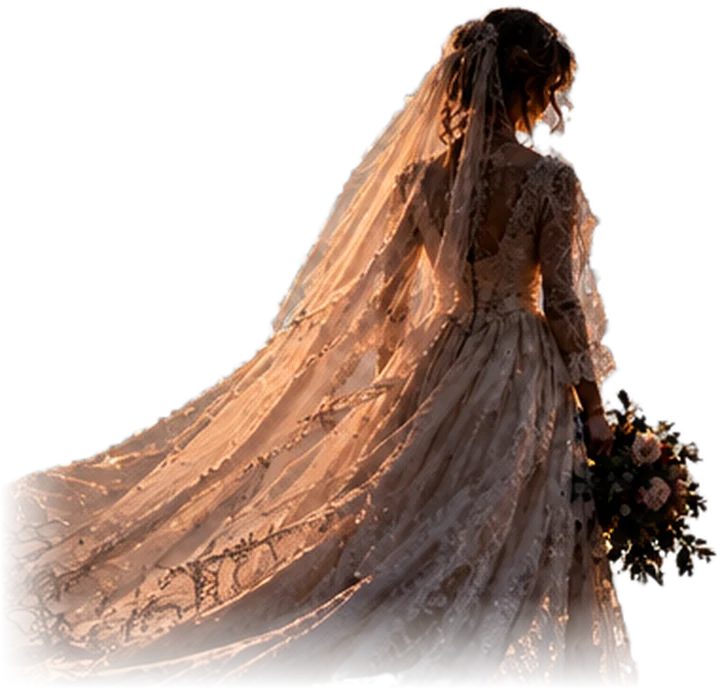
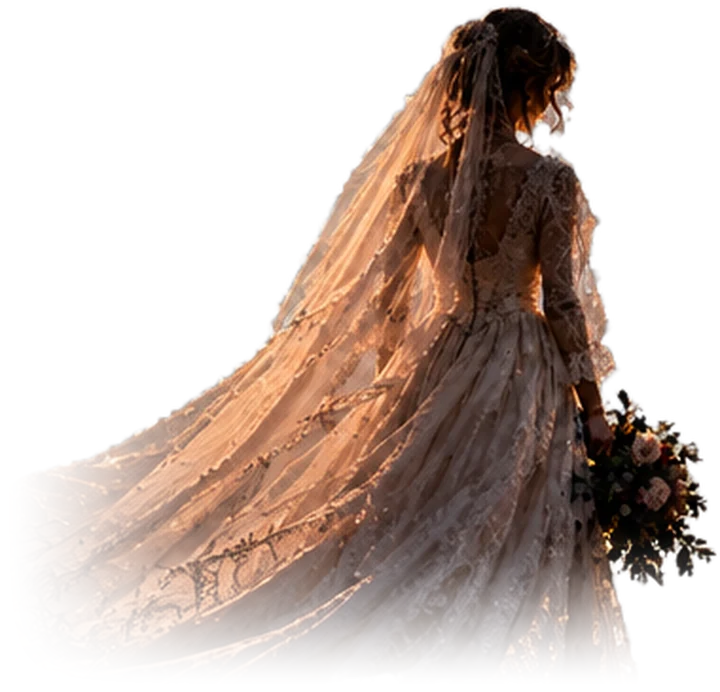
Foto's passend bij elk spoor in alle wandelingen; camera-herkenning rustiger en ruimer; bruid gecentreerd met zachtere randen
Claude-Session: https://claude.ai/code/session_01GGBRKkbZBgiRYUHbP3WSQy

Changed region(s): [[0.0, 0.5766, 0.9778, 1.0]]

diff --git a/murder-walk.html b/murder-walk.html
@@ -528,7 +528,7 @@ const inRange=t=>dTo(t)<=Math.max(35,Math.min(P.acc||0,60))||G.force===t;
 /* schim: man met hoed en lange jas in het lantaarnlicht, zoals op de sfeerfoto; twee ogen in de kleur van de schim */
 const FP={},fp=d=>FP[d]||(FP[d]=new Path2D(d));
 function ph(k){return'<img class="ph" src="'+MW.root+'assets/mw-'+k+'.webp" alt="" width="640" height="540">'}
-function phT(t){return ph(t==="jas"||t==="bril"||t==="schoen"||t==="hand"?t:"evidence")}
+function phT(t,v){const i=TR[t]?TR[t].indexOf(v):-1;return ph(t==="jas"?(i===2?"evidence":"jas"):t==="bril"?(i===0?"bril":"suspect"):t==="hand"?"dossier":t==="schoen"?"schoen":"lantern")}
 ["lantern","witness","suspect","victim","evidence","jas","bril","schoen","hand","flee","shade","dossier"].forEach((k,i)=>setTimeout(()=>{new Image().src=MW.root+"assets/mw-"+k+".webp"},3000+i*300));
 const SHIMG=new Image();SHIMG.src=MW.root+"assets/mw-shadow.webp";const tint=(h,a)=>"rgba("+parseInt(h.slice(1,3),16)+","+parseInt(h.slice(3,5),16)+","+parseInt(h.slice(5,7),16)+","+a+")";
 function ghost(c,x,y,s,col,al){c.save();c.globalAlpha=al;
@@ -751,7 +751,7 @@ async function startAR(t){
   let head=0,h0=null,beta=80,manual=0,hold=0,last=0,raf=0,got=false,px=null,over=false,t0=0;
   let off=(Math.random()<.5?-1:1)*(50+Math.random()*70);
   const tier=t.id!=null?SHADES[t.id][1]:0,col=tier===3?"#f0963c":tier===2?"#e0545f":tier===1?"#ffffff":"#f3c9a0";
-  const onO=e=>{const a=e.webkitCompassHeading!=null?e.webkitCompassHeading:(e.alpha!=null?360-e.alpha:null);if(a==null)return;got=true;head=a;if(h0==null)h0=a;if(e.beta!=null)beta=e.beta};
+  const onO=e=>{const a=e.webkitCompassHeading!=null?e.webkitCompassHeading:(e.alpha!=null?360-e.alpha:null);if(a==null)return;got=true;if(h0==null){h0=a;head=a}else{const dh=((a-head)%360+540)%360-180;head=(head+dh*.25+360)%360};if(e.beta!=null)beta=e.beta};
   addEventListener("deviceorientation",onO);
   c.onpointerdown=e=>{px=e.clientX};c.onpointermove=e=>{if(px!=null){manual-=(e.clientX-px)*.25;px=e.clientX}};c.onpointerup=()=>{px=null};
   const end=ok=>{if(over)return;over=true;cancelAnimationFrame(raf);removeEventListener("deviceorientation",onO);stream.getTracks().forEach(x=>x.stop());v.srcObject=null;ar.hidden=true;if(ok){buzz(120);beep(700,.2);puzzle(t)}};
@@ -762,7 +762,7 @@ async function startAR(t){
     g.clearRect(0,0,w,h);g.fillStyle="rgba(10,16,30,.38)";g.fillRect(0,0,w,h);
     const s=Math.min(w,h)*.8,x=w/2+d/60*w,y=h*.56+(got?Math.max(-h*.3,Math.min(h*.3,(beta-80)*h/100)):0);
     if(Math.abs(d)<55)ghost(g,x,y,s,col,.94);
-    const on=Math.abs(d)<9;hold=on?hold+dt:0;
+    const on=Math.abs(d)<14;hold=on?hold+dt:Math.max(0,hold-dt*1.5);
     g.strokeStyle="rgba(236,228,210,.7)";g.lineWidth=2;g.beginPath();g.arc(w/2,h/2,46,0,7);g.stroke();
     if(on){g.strokeStyle="#f0963c";g.lineWidth=5;g.beginPath();g.arc(w/2,h/2,46,-1.57,-1.57+6.283*Math.min(1,hold));g.stroke()}
     g.font="20px 'Special Elite',monospace";g.textAlign="center";g.fillStyle="#ece4d2";g.shadowColor="#000";g.shadowBlur=8;
@@ -780,7 +780,7 @@ function reveal(t){
     const opts=G.c.wit.map((w,i)=>i).filter(i=>!G.c.wit[i].lie&&!G.tips.includes(i)),ti=opts.length?opts[Math.floor(Math.random()*opts.length)]:-1;let tip="";
     if(ti>=0&&!G.tips.length){G.tips.push(ti);const p=G.st.find(x=>x.kind==="wit"&&x.idx===ti).persona;tip=`<div class="clue"><em>Tip from the shade</em>Believe ${esc(p)}. That one is telling the truth.</div>`}
     h=ph("shade")+`<div class="eyebrow r${s[1]}">${RN[s[1]]}${isNew?" · new in your book":""}</div><h2>${esc(s[0])}</h2><p>${esc(s[2])}</p>${tip}<p class="note" style="color:#6a6250">+${20*s[1]} points</p>`;
-  }else if(t.kind==="ev"){const e=G.c.ev[t.idx];h=phT(e.trait)+`<div class="clue"><em>Evidence · always true</em><b>${esc(e.title)}</b>${esc(e.text)}</div>`}
+  }else if(t.kind==="ev"){const e=G.c.ev[t.idx];h=phT(e.trait,e.val)+`<div class="clue"><em>Evidence · always true</em><b>${esc(e.title)}</b>${esc(e.text)}</div>`}
   else{const w=G.c.wit[t.idx];say((INTRO[t.persona]||"")+" "+w.text,t.idx);h=ph("witness")+`<div class="clue wit"><em>${esc(t.persona)} · witness</em>“${esc(INTRO[t.persona]||"I just happened to be passing.")} ${esc(w.text)}”</div><p class="note" style="color:#6a6250">One of the five witnesses is lying. This one?</p>`}
   if(t.id==null){const n=G.st.filter(x=>x.done).length;h+=`<div class="clue" style="border-color:#6a6250;margin-top:8px"><em>The last evening · ${n}/8</em>${esc(vn(fragList()[n-1]))}</div>`}
   $("#mgHint").hidden=true;$("#mgbox").hidden=true;
@@ -1068,7 +1068,7 @@ function xDraw(t){const X=G.x;if(!X)return;const bob=still?0:Math.sin(t/300)*3;
 function evtOpen(e){walkTo=null;if(e.state!=="run")return;if(Date.now()>e.until){xTick();return}
   e.state="won";e.done=true;e.v=G.c.sus[G.c.killer].tr[e.t];prof.xp+=30;LS.set("ss_prof",prof);sel=null;save();buzz([100,50,100,50,300]);beep(660,.2);setTimeout(()=>beep(990,.4),200);
   const z=evText(e.t,e.v);
-  sheet(phT(e.t)+'<div class="eyebrow">'+T.evWinEy+'</div><h2>'+T.evWinH+'</h2><p>'+T.evWinT+'</p><div class="clue"><em>'+T.evTag+'</em><b>'+esc(z[0])+'</b>'+esc(z[1])+'</div><p class="note" style="color:#6a6250">'+T.xXp+'</p><button type="button" class="btn" id="shX">'+T.xOn+'</button>');
+  sheet(ph("hand")+'<div class="eyebrow">'+T.evWinEy+'</div><h2>'+T.evWinH+'</h2><p>'+T.evWinT+'</p><div class="clue"><em>'+T.evTag+'</em><b>'+esc(z[0])+'</b>'+esc(z[1])+'</div><p class="note" style="color:#6a6250">'+T.xXp+'</p><button type="button" class="btn" id="shX">'+T.xOn+'</button>');
   $("#sheetBody").onclick=ev=>{if(ev.target.id==="shX")closeSheet()}}
 function ivAns(e,t){const c=G.c,kv=c.sus[c.killer].tr[t];if(e.s!==c.killer)return witText(t,kv);const o=TR[t].filter(v=>v!==kv);return witText(t,o[hashStr(G.seed+"l"+t)%o.length])}
 function ivSheet(e){walkTo=null;const c=G.c,s=c.sus[e.s],k=xFree();

diff --git a/nl/moordwandeling.html b/nl/moordwandeling.html
@@ -528,7 +528,7 @@ const inRange=t=>dTo(t)<=Math.max(35,Math.min(P.acc||0,60))||G.force===t;
 /* schim: man met hoed en lange jas in het lantaarnlicht, zoals op de sfeerfoto; twee ogen in de kleur van de schim */
 const FP={},fp=d=>FP[d]||(FP[d]=new Path2D(d));
 function ph(k){return'<img class="ph" src="'+MW.root+'assets/mw-'+k+'.webp" alt="" width="640" height="540">'}
-function phT(t){return ph(t==="jas"||t==="bril"||t==="schoen"||t==="hand"?t:"evidence")}
+function phT(t,v){const i=TR[t]?TR[t].indexOf(v):-1;return ph(t==="jas"?(i===2?"evidence":"jas"):t==="bril"?(i===0?"bril":"suspect"):t==="hand"?"dossier":t==="schoen"?"schoen":"lantern")}
 ["lantern","witness","suspect","victim","evidence","jas","bril","schoen","hand","flee","shade","dossier"].forEach((k,i)=>setTimeout(()=>{new Image().src=MW.root+"assets/mw-"+k+".webp"},3000+i*300));
 const SHIMG=new Image();SHIMG.src=MW.root+"assets/mw-shadow.webp";const tint=(h,a)=>"rgba("+parseInt(h.slice(1,3),16)+","+parseInt(h.slice(3,5),16)+","+parseInt(h.slice(5,7),16)+","+a+")";
 function ghost(c,x,y,s,col,al){c.save();c.globalAlpha=al;
@@ -751,7 +751,7 @@ async function startAR(t){
   let head=0,h0=null,beta=80,manual=0,hold=0,last=0,raf=0,got=false,px=null,over=false,t0=0;
   let off=(Math.random()<.5?-1:1)*(50+Math.random()*70);
   const tier=t.id!=null?SHADES[t.id][1]:0,col=tier===3?"#f0963c":tier===2?"#e0545f":tier===1?"#ffffff":"#f3c9a0";
-  const onO=e=>{const a=e.webkitCompassHeading!=null?e.webkitCompassHeading:(e.alpha!=null?360-e.alpha:null);if(a==null)return;got=true;head=a;if(h0==null)h0=a;if(e.beta!=null)beta=e.beta};
+  const onO=e=>{const a=e.webkitCompassHeading!=null?e.webkitCompassHeading:(e.alpha!=null?360-e.alpha:null);if(a==null)return;got=true;if(h0==null){h0=a;head=a}else{const dh=((a-head)%360+540)%360-180;head=(head+dh*.25+360)%360};if(e.beta!=null)beta=e.beta};
   addEventListener("deviceorientation",onO);
   c.onpointerdown=e=>{px=e.clientX};c.onpointermove=e=>{if(px!=null){manual-=(e.clientX-px)*.25;px=e.clientX}};c.onpointerup=()=>{px=null};
   const end=ok=>{if(over)return;over=true;cancelAnimationFrame(raf);removeEventListener("deviceorientation",onO);stream.getTracks().forEach(x=>x.stop());v.srcObject=null;ar.hidden=true;if(ok){buzz(120);beep(700,.2);puzzle(t)}};
@@ -762,7 +762,7 @@ async function startAR(t){
     g.clearRect(0,0,w,h);g.fillStyle="rgba(10,16,30,.38)";g.fillRect(0,0,w,h);
     const s=Math.min(w,h)*.8,x=w/2+d/60*w,y=h*.56+(got?Math.max(-h*.3,Math.min(h*.3,(beta-80)*h/100)):0);
     if(Math.abs(d)<55)ghost(g,x,y,s,col,.94);
-    const on=Math.abs(d)<9;hold=on?hold+dt:0;
+    const on=Math.abs(d)<14;hold=on?hold+dt:Math.max(0,hold-dt*1.5);
     g.strokeStyle="rgba(236,228,210,.7)";g.lineWidth=2;g.beginPath();g.arc(w/2,h/2,46,0,7);g.stroke();
     if(on){g.strokeStyle="#f0963c";g.lineWidth=5;g.beginPath();g.arc(w/2,h/2,46,-1.57,-1.57+6.283*Math.min(1,hold));g.stroke()}
     g.font="20px 'Special Elite',monospace";g.textAlign="center";g.fillStyle="#ece4d2";g.shadowColor="#000";g.shadowBlur=8;
@@ -780,7 +780,7 @@ function reveal(t){
     const opts=G.c.wit.map((w,i)=>i).filter(i=>!G.c.wit[i].lie&&!G.tips.includes(i)),ti=opts.length?opts[Math.floor(Math.random()*opts.length)]:-1;let tip="";
     if(ti>=0&&!G.tips.length){G.tips.push(ti);const p=G.st.find(x=>x.kind==="wit"&&x.idx===ti).persona;tip=`<div class="clue"><em>Tip van de schim</em>Geloof ${esc(p)}. Die spreekt de waarheid.</div>`}
     h=ph("shade")+`<div class="eyebrow r${s[1]}">${RN[s[1]]}${isNew?" · nieuw in je boek":""}</div><h2>${esc(s[0])}</h2><p>${esc(s[2])}</p>${tip}<p class="note" style="color:#6a6250">+${20*s[1]} punten</p>`;
-  }else if(t.kind==="ev"){const e=G.c.ev[t.idx];h=phT(e.trait)+`<div class="clue"><em>Bewijs · altijd waar</em><b>${esc(e.title)}</b>${esc(e.text)}</div>`}
+  }else if(t.kind==="ev"){const e=G.c.ev[t.idx];h=phT(e.trait,e.val)+`<div class="clue"><em>Bewijs · altijd waar</em><b>${esc(e.title)}</b>${esc(e.text)}</div>`}
   else{const w=G.c.wit[t.idx];say((INTRO[t.persona]||"")+" "+w.text,t.idx);h=ph("witness")+`<div class="clue wit"><em>${esc(t.persona)} · getuige</em>„${esc(INTRO[t.persona]||"Ik kwam hier toevallig langs.")} ${esc(w.text)}”</div><p class="note" style="color:#6a6250">Eén van de vijf getuigen liegt. Deze ook?</p>`}
   if(t.id==null){const n=G.st.filter(x=>x.done).length;h+=`<div class="clue" style="border-color:#6a6250;margin-top:8px"><em>De laatste avond · ${n}/8</em>${esc(vn(fragList()[n-1]))}</div>`}
   $("#mgHint").hidden=true;$("#mgbox").hidden=true;
@@ -1068,7 +1068,7 @@ function xDraw(t){const X=G.x;if(!X)return;const bob=still?0:Math.sin(t/300)*3;
 function evtOpen(e){walkTo=null;if(e.state!=="run")return;if(Date.now()>e.until){xTick();return}
   e.state="won";e.done=true;e.v=G.c.sus[G.c.killer].tr[e.t];prof.xp+=30;LS.set("ss_prof",prof);sel=null;save();buzz([100,50,100,50,300]);beep(660,.2);setTimeout(()=>beep(990,.4),200);
   const z=evText(e.t,e.v);
-  sheet(phT(e.t)+'<div class="eyebrow">'+T.evWinEy+'</div><h2>'+T.evWinH+'</h2><p>'+T.evWinT+'</p><div class="clue"><em>'+T.evTag+'</em><b>'+esc(z[0])+'</b>'+esc(z[1])+'</div><p class="note" style="color:#6a6250">'+T.xXp+'</p><button type="button" class="btn" id="shX">'+T.xOn+'</button>');
+  sheet(ph("hand")+'<div class="eyebrow">'+T.evWinEy+'</div><h2>'+T.evWinH+'</h2><p>'+T.evWinT+'</p><div class="clue"><em>'+T.evTag+'</em><b>'+esc(z[0])+'</b>'+esc(z[1])+'</div><p class="note" style="color:#6a6250">'+T.xXp+'</p><button type="button" class="btn" id="shX">'+T.xOn+'</button>');
   $("#sheetBody").onclick=ev=>{if(ev.target.id==="shX")closeSheet()}}
 function ivAns(e,t){const c=G.c,kv=c.sus[c.killer].tr[t];if(e.s!==c.killer)return witText(t,kv);const o=TR[t].filter(v=>v!==kv);return witText(t,o[hashStr(G.seed+"l"+t)%o.length])}
 function ivSheet(e){walkTo=null;const c=G.c,s=c.sus[e.s],k=xFree();

diff --git a/games/lastbus/game.js b/games/lastbus/game.js
@@ -59,6 +59,8 @@ function wet(c,rx,a){var g=c.createRadialGradient(60,152,2,60,152,rx);g.addColor
 var WIMG=new Image();WIMG.src=MW.root+"games/lastbus/walker.webp";
 function ph(k,cls){return '<img class="'+(cls||"ph")+'" src="'+MW.root+'games/lastbus/p-'+k+'.webp" alt="" width="720" height="630">'}
 var KPH={cam:"cam",wit:"driver",msg:"phone",obj:"receipt",time:"pole",open:"bus"},SPH=["meet","money","proof"];
+function fid(f){var i,k,v,a;if(f.k==="open")return "open";for(i=0;i<(D.SC||[]).length;i++)if(D.SC[i].t===f.t)return "SC:"+i;for(i=0;i<D.TIME.length;i++)if(D.TIME[i].t===f.t)return "TIME:"+i;for(k in D.CT)for(v in D.CT[k].clue){a=D.CT[k].clue[v];for(i=0;i<a.length;i++)if(a[i].t===f.t)return k+":"+v+":"+i}return ""}
+var FPH={"water:ja:2":"left","water:nee:2":"end","SC:2":"meet","SC:8":"proof","SC:11":"money","cam:ja:0":"phone","cam:nee:0":"phone","SC:7":"phone","SC:10":"phone","TIME:1":"phone","TIME:2":"bus","TIME:3":"bus"};
 function walker(c,x,y,s,col,al){
   if(WIMG.naturalWidth){c.save();c.globalAlpha=al;var cy=y-s*.06,g0=c.createRadialGradient(x,cy,s*.05,x,cy,s*.74);g0.addColorStop(0,"rgba(255,190,90,.40)");g0.addColorStop(.55,"rgba(255,176,0,.14)");g0.addColorStop(1,"rgba(255,176,0,0)");c.fillStyle=g0;c.beginPath();c.arc(x,cy,s*.74,0,7);c.fill();
     var wh=s*1.14,ww=wh*WIMG.naturalWidth/WIMG.naturalHeight;c.drawImage(WIMG,x-ww/2,y-wh/2,ww,wh);c.restore();return}
@@ -257,7 +259,7 @@ function startAR(s){closeSheet();var ar=$("#ar"),v=$("#arV"),c=$("#arC"),hint=$(
   try{if(window.DeviceOrientationEvent&&typeof DeviceOrientationEvent.requestPermission==="function")DeviceOrientationEvent.requestPermission().catch(function(){})}catch(e){}
   req.then(function(stream){G.cam="on";save();AR.on=true;v.srcObject=stream;ar.hidden=false;var g=c.getContext("2d"),dpr=1,w=0,h=0,head=null,dragH=180,target=90+Math.random()*180,hold=0,last=0,fin=false,hasOri=false;
     var rs=function(){dpr=Math.min(2,devicePixelRatio||1);w=c.clientWidth;h=c.clientHeight;c.width=w*dpr;c.height=h*dpr};rs();addEventListener("resize",rs);
-    var ori=function(e){var a=e.webkitCompassHeading!=null?e.webkitCompassHeading:(e.alpha!=null?360-e.alpha:null);if(a!=null){head=a;hasOri=true}};
+    var ori=function(e){var a=e.webkitCompassHeading!=null?e.webkitCompassHeading:(e.alpha!=null?360-e.alpha:null);if(a!=null){if(head==null)head=a;else{var dh=((a-head)%360+540)%360-180;head=(head+dh*.25+360)%360}hasOri=true}};
     addEventListener("deviceorientationabsolute",ori);addEventListener("deviceorientation",ori);
     var pd=null;c.addEventListener("pointerdown",function(e){pd=[e.clientX,dragH]});c.addEventListener("pointermove",function(e){if(pd&&!hasOri)dragH=pd[1]-(e.clientX-pd[0])*.35});c.addEventListener("pointerup",function(){pd=null});
     var stop=function(){AR.on=false;fin=true;removeEventListener("deviceorientationabsolute",ori);removeEventListener("deviceorientation",ori);removeEventListener("resize",rs);try{stream.getTracks().forEach(function(t){t.stop()})}catch(e){}v.srcObject=null;ar.hidden=true};
@@ -268,14 +270,14 @@ function startAR(s){closeSheet();var ar=$("#ar"),v=$("#arV"),c=$("#arC"),hint=$(
       var fov=60,x=w/2+d/fov*w,y=h*.58,vis=Math.abs(d)<fov*.9;
       if(vis){var sc=120+Math.max(0,20-Math.abs(d))*2;walker(g,x,y-sc*.1,sc,"#f0963c",.6+.35*Math.abs(Math.sin(ts/300)))}
       g.strokeStyle="rgba(240,166,58,.8)";g.lineWidth=2;g.beginPath();g.arc(w/2,y,44,0,7);g.stroke();
-      var near=Math.abs(d)<10;hold=near?hold+dt:0;if(near){g.strokeStyle="#f4ece0";g.lineWidth=5;g.beginPath();g.arc(w/2,y,52,-1.57,-1.57+6.283*Math.min(1,hold/1.2));g.stroke()}
-      hint.textContent=near?PZ.ar.hold:d<-10?PZ.ar.left:d>10?PZ.ar.right:"";
+      var near=Math.abs(d)<15;hold=near?hold+dt:Math.max(0,hold-dt*1.5);if(near){g.strokeStyle="#f4ece0";g.lineWidth=5;g.beginPath();g.arc(w/2,y,52,-1.57,-1.57+6.283*Math.min(1,hold/1.2));g.stroke()}
+      hint.textContent=near?PZ.ar.hold:d<-15?PZ.ar.left:d>15?PZ.ar.right:"";
       if(hold>=1.2){toast(PZ.ar.found);stop();finish(s);return}
       requestAnimationFrame(f)};requestAnimationFrame(f)
   }).catch(function(){G.cam="off";save();puzzle(s)})}
 function reveal(s){var f=G.c.frags[s.fi],v=vars(G.c),n=G.st.filter(function(x){return x.done}).length,tw=D.TWIST[n],fig=f.k==="cam"||f.k==="wit"||f.k==="open";
   sheet('<div class="led"><b>'+v.LN+'</b><span>'+esc(s.name)+'</span><i>'+fmt(f.tm)+'</i></div>'+
-    '<div class="clue k-'+f.k+'"><em>'+esc(f.k==="wit"?T.kinds.wit+" · "+cap(s.persona):T.kinds[f.k])+' · '+esc(fill(T.found,{i:n,t:fmt(f.tm)}))+'</em>'+ph(KPH[f.k]||"receipt","dph")+'<p>'+esc(fragText(f))+'</p></div>'+
+    '<div class="clue k-'+f.k+'"><em>'+esc(f.k==="wit"?T.kinds.wit+" · "+cap(s.persona):T.kinds[f.k])+' · '+esc(fill(T.found,{i:n,t:fmt(f.tm)}))+'</em>'+ph(FPH[fid(f)]||KPH[f.k]||"receipt","dph")+'<p>'+esc(fragText(f))+'</p></div>'+
     (tw?'<div class="twist"><em>'+esc(T.certGone)+'</em><p>'+esc(fill(tw,v))+'</p></div>':'')+'<button type="button" class="btn" id="shX">'+T.back+'</button>');
   var fc=$("#figc");if(fc){var fg=fc.getContext("2d");if(f.k==="wit")shelter(fg,160,118,220,s.fi);else{bus(fg,205,112,200,v.LN,1);walker(fg,74,138,150,"#ffb000",1)}}
   if(tw){buzz([120,80,260]);beep(160,.4)}

diff --git a/games/coldcase/game.js b/games/coldcase/game.js
@@ -62,6 +62,8 @@ function wet(c,rx,a){if(PAST){c.fillStyle="rgba(40,28,16,.28)";c.beginPath();c.e
 var WIMG=new Image();WIMG.src=MW.root+"games/coldcase/walker.webp";
 function ph(k,cls){return '<img class="'+(cls||"ph")+'" src="'+MW.root+'games/coldcase/p-'+k+'.webp" alt="" width="720" height="610">'}
 var KPH={cam:"photo",wit:"interro",msg:"letter",obj:"evidence",time:"clipping",open:"phone"},SPH=["crime","accident","left"];
+function fid(f){var i,k,v,a;if(f.k==="open")return "open";for(i=0;i<(D.SC||[]).length;i++)if(D.SC[i].t===f.t)return "SC:"+i;for(i=0;i<D.TIME.length;i++)if(D.TIME[i].t===f.t)return "TIME:"+i;for(k in D.CT)for(v in D.CT[k].clue){a=D.CT[k].clue[v];for(i=0;i<a.length;i++)if(a[i].t===f.t)return k+":"+v+":"+i}return ""}
+var FPH={"SC:0":"crime","SC:8":"accident","lang:ja:2":"file","TIME:2":"file","TIME:3":"file"};
 function walker(c,x,y,s,col,al){
   if(WIMG.naturalWidth){c.save();c.globalAlpha=al;var wh=s*1.14,ww=wh*WIMG.naturalWidth/WIMG.naturalHeight;c.drawImage(WIMG,x-ww/2,y-wh/2,ww,wh);c.restore();return}
   figBox(c,x,y,s,al,function(){
@@ -246,7 +248,7 @@ function startAR(s){closeSheet();var ar=$("#ar"),v=$("#arV"),c=$("#arC"),hint=$(
   try{if(window.DeviceOrientationEvent&&typeof DeviceOrientationEvent.requestPermission==="function")DeviceOrientationEvent.requestPermission().catch(function(){})}catch(e){}
   req.then(function(stream){G.cam="on";save();AR.on=true;v.srcObject=stream;ar.hidden=false;var g=c.getContext("2d"),dpr=1,w=0,h=0,head=null,dragH=180,target=90+Math.random()*180,hold=0,last=0,fin=false,hasOri=false;
     var rs=function(){dpr=Math.min(2,devicePixelRatio||1);w=c.clientWidth;h=c.clientHeight;c.width=w*dpr;c.height=h*dpr};rs();addEventListener("resize",rs);
-    var ori=function(e){var a=e.webkitCompassHeading!=null?e.webkitCompassHeading:(e.alpha!=null?360-e.alpha:null);if(a!=null){head=a;hasOri=true}};
+    var ori=function(e){var a=e.webkitCompassHeading!=null?e.webkitCompassHeading:(e.alpha!=null?360-e.alpha:null);if(a!=null){if(head==null)head=a;else{var dh=((a-head)%360+540)%360-180;head=(head+dh*.25+360)%360}hasOri=true}};
     addEventListener("deviceorientationabsolute",ori);addEventListener("deviceorientation",ori);
     var pd=null;c.addEventListener("pointerdown",function(e){pd=[e.clientX,dragH]});c.addEventListener("pointermove",function(e){if(pd&&!hasOri)dragH=pd[1]-(e.clientX-pd[0])*.35});c.addEventListener("pointerup",function(){pd=null});
     var stop=function(){AR.on=false;fin=true;removeEventListener("deviceorientationabsolute",ori);removeEventListener("deviceorientation",ori);removeEventListener("resize",rs);try{stream.getTracks().forEach(function(t){t.stop()})}catch(e){}v.srcObject=null;ar.hidden=true};
@@ -257,14 +259,14 @@ function startAR(s){closeSheet();var ar=$("#ar"),v=$("#arV"),c=$("#arC"),hint=$(
       var fov=60,x=w/2+d/fov*w,y=h*.58,vis=Math.abs(d)<fov*.9;
       if(vis){var sc=120+Math.max(0,20-Math.abs(d))*2;past(g,x,y-sc*.1,sc+hold*40,.95,ts,walker)}
       g.strokeStyle="rgba(240,166,58,.8)";g.lineWidth=2;g.beginPath();g.arc(w/2,y,44,0,7);g.stroke();g.font="20px 'Special Elite',monospace";g.textAlign="right";g.fillStyle="rgba(255,170,60,.9)";g.fillText(dateOf(G.seed).toUpperCase(),w-18,h-90);g.textAlign="left";g.fillText("● REC",18,h-90);
-      var near=Math.abs(d)<10;hold=near?hold+dt:0;if(near){g.strokeStyle="#f4ece0";g.lineWidth=5;g.beginPath();g.arc(w/2,y,52,-1.57,-1.57+6.283*Math.min(1,hold/1.2));g.stroke()}
-      hint.textContent=near?PZ.ar.hold:d<-10?PZ.ar.left:d>10?PZ.ar.right:"";
+      var near=Math.abs(d)<15;hold=near?hold+dt:Math.max(0,hold-dt*1.5);if(near){g.strokeStyle="#f4ece0";g.lineWidth=5;g.beginPath();g.arc(w/2,y,52,-1.57,-1.57+6.283*Math.min(1,hold/1.2));g.stroke()}
+      hint.textContent=near?PZ.ar.hold:d<-15?PZ.ar.left:d>15?PZ.ar.right:"";
       if(hold>=1.2){toast(PZ.ar.found);stop();finish(s);return}
       requestAnimationFrame(f)};requestAnimationFrame(f)
   }).catch(function(){G.cam="off";save();puzzle(s)})}
 function reveal(s){var f=G.c.frags[s.fi],v=vars(G.c),then=D.THEN[s.type]||D.THEN.hoek,fig=f.k==="cam"||f.k==="wit";
   sheet('<div class="then"><span class="now">'+esc(T.now)+' · '+esc(s.name)+'</span><b>'+YEAR+'</b><span class="was">'+esc(then)+'</span></div>'+
-    '<div class="doc k-'+f.k+'"><em>'+esc(f.k==="wit"?T.kinds.wit+" · "+cap(s.persona):T.kinds[f.k])+' · '+fmt(f.tm)+(L==="nl"?" uur":"")+'</em>'+ph(KPH[f.k]||"evidence","dph")+'<p>'+esc(fragText(f))+'</p></div>'+
+    '<div class="doc k-'+f.k+'"><em>'+esc(f.k==="wit"?T.kinds.wit+" · "+cap(s.persona):T.kinds[f.k])+' · '+fmt(f.tm)+(L==="nl"?" uur":"")+'</em>'+ph(FPH[fid(f)]||KPH[f.k]||"evidence","dph")+'<p>'+esc(fragText(f))+'</p></div>'+
     (f.k==="open"?'<p class="note">'+esc(fill(T.how[2],v))+'</p>':'')+'<button type="button" class="btn" id="shX">'+T.back+'</button>');
   var fc=$("#figc");if(fc){var fg=fc.getContext("2d");past(fg,120,116,190,1,0,f.k==="cam"?walker:pastW(s.fi))}
   $("#shX").onclick=function(){closeSheet();sel=null;chip();if(G.st.every(function(x){return x.done}))toast(T.radarAll)}}

diff --git a/games/bride/game.js b/games/bride/game.js
@@ -58,11 +58,13 @@ function pool(c,rx,col,a){var g=c.createRadialGradient(60,152,2,60,152,rx);g.add
 /* de bruid: op de rug gezien, opgestoken haar, kanten lijfje, wijde rok en een sluier die naar links wegwaait; zij is het enige lichte in de straat */
 var BIMG=new Image();BIMG.src=MW.root+"games/bride/bride.webp";
 function ph(k){return '<img class="ph" src="'+MW.root+'games/bride/p-'+k+'.webp" alt="" width="720" height="600">'}
-function phF(f){return ph(f.k==="cam"?"bride":f.k==="wit"?"witness":f.k==="msg"||f.k==="open"?"phone":f.k==="time"?"bouquet":f.trait==="ring"?"ring":f.trait==="bellen"?"phone":"invite")}
+function fid(f){var i,k,v,a;if(f.k==="open")return "open";for(i=0;i<(D.SC||[]).length;i++)if(D.SC[i].t===f.t)return "SC:"+i;for(i=0;i<D.TIME.length;i++)if(D.TIME[i].t===f.t)return "TIME:"+i;for(k in D.CT)for(v in D.CT[k].clue){a=D.CT[k].clue[v];for(i=0;i<a.length;i++)if(a[i].t===f.t)return k+":"+v+":"+i}return ""}
+var FPH={"ring:ja:0":"ring","ring:nee:0":"ring","sleutel:ja:0":"dress","bellen:ja:0":"phone","bellen:nee:0":"phone","SC:8":"money","TIME:0":"jealousy","TIME:2":"witness","TIME:3":"invite"};
+function phF(f){return ph(FPH[fid(f)]||(f.k==="cam"?"bride":f.k==="wit"?"witness":f.k==="msg"||f.k==="open"?"phone":f.k==="time"?"bouquet":"invite"))}
 var MPH=["jealousy","money","secret"];
 function bride(c,x,y,s,col,al){
   if(BIMG.naturalWidth){c.save();c.globalAlpha=al;var h0=c.createRadialGradient(x,y,s*.05,x,y,s*.8);h0.addColorStop(0,"rgba(247,239,223,.32)");h0.addColorStop(1,"rgba(247,239,223,0)");c.fillStyle=h0;c.beginPath();c.arc(x,y,s*.8,0,7);c.fill();
-    var bw=s*1.3,bh=bw*BIMG.naturalHeight/BIMG.naturalWidth;c.drawImage(BIMG,x-bw*.64,y-bh*.5,bw,bh);c.restore();return}
+    var bw=s*1.3,bh=bw*BIMG.naturalHeight/BIMG.naturalWidth;c.drawImage(BIMG,x-bw*.72,y-bh*.5,bw,bh);c.restore();return}
   figBox(c,x,y,s,al,function(){
   var h=c.createRadialGradient(60,70,6,60,80,110);h.addColorStop(0,"rgba(247,239,223,.30)");h.addColorStop(1,"rgba(247,239,223,0)");c.fillStyle=h;c.beginPath();c.arc(60,80,110,0,7);c.fill();
   pool(c,74,"240,168,80",.38);
@@ -278,7 +280,7 @@ function startAR(s){closeSheet();var ar=$("#ar"),v=$("#arV"),c=$("#arC"),hint=$(
   try{if(window.DeviceOrientationEvent&&typeof DeviceOrientationEvent.requestPermission==="function")DeviceOrientationEvent.requestPermission().catch(function(){})}catch(e){}
   req.then(function(stream){G.cam="on";save();AR.on=true;v.srcObject=stream;ar.hidden=false;var g=c.getContext("2d"),dpr=1,w=0,h=0,head=null,dragH=180,target=90+Math.random()*180,hold=0,last=0,fin=false,hasOri=false;
     var rs=function(){dpr=Math.min(2,devicePixelRatio||1);w=c.clientWidth;h=c.clientHeight;c.width=w*dpr;c.height=h*dpr};rs();addEventListener("resize",rs);
-    var ori=function(e){var a=e.webkitCompassHeading!=null?e.webkitCompassHeading:(e.alpha!=null?360-e.alpha:null);if(a!=null){head=a;hasOri=true}};
+    var ori=function(e){var a=e.webkitCompassHeading!=null?e.webkitCompassHeading:(e.alpha!=null?360-e.alpha:null);if(a!=null){if(head==null)head=a;else{var dh=((a-head)%360+540)%360-180;head=(head+dh*.25+360)%360}hasOri=true}};
     addEventListener("deviceorientationabsolute",ori);addEventListener("deviceorientation",ori);
     var pd=null;c.addEventListener("pointerdown",function(e){pd=[e.clientX,dragH]});c.addEventListener("pointermove",function(e){if(pd&&!hasOri)dragH=pd[1]-(e.clientX-pd[0])*.35});c.addEventListener("pointerup",function(){pd=null});
     var stop=function(){AR.on=false;fin=true;removeEventListener("deviceorientationabsolute",ori);removeEventListener("deviceorientation",ori);removeEventListener("resize",rs);try{stream.getTracks().forEach(function(t){t.stop()})}catch(e){}v.srcObject=null;ar.hidden=true};
@@ -289,8 +291,8 @@ function startAR(s){closeSheet();var ar=$("#ar"),v=$("#arV"),c=$("#arC"),hint=$(
       var fov=60,x=w/2+d/fov*w,y=h*.58,vis=Math.abs(d)<fov*.9;
       if(vis){var sc=110+hold*90;bride(g,x,y-sc*.12,sc,"#f0a850",Math.max(0,.9-Math.max(0,hold-1.4)*1.5))}
       g.strokeStyle="rgba(240,168,80,.85)";g.lineWidth=1.5;g.beginPath();g.arc(w/2,y,44,0,7);g.stroke();
-      var near=Math.abs(d)<10;hold=near?hold+dt:0;if(near){g.strokeStyle="#efe6d8";g.lineWidth=4;g.beginPath();g.arc(w/2,y,52,-1.57,-1.57+6.283*Math.min(1,hold/2));g.stroke()}
-      hint.textContent=near?PZ.ar.hold:d<-10?PZ.ar.left:d>10?PZ.ar.right:"";
+      var near=Math.abs(d)<15;hold=near?hold+dt:Math.max(0,hold-dt*1.5);if(near){g.strokeStyle="#efe6d8";g.lineWidth=4;g.beginPath();g.arc(w/2,y,52,-1.57,-1.57+6.283*Math.min(1,hold/2));g.stroke()}
+      hint.textContent=near?PZ.ar.hold:d<-15?PZ.ar.left:d>15?PZ.ar.right:"";
       if(hold>=2){toast(PZ.ar.found);stop();finish(s);return}
       requestAnimationFrame(f)};requestAnimationFrame(f)
   }).catch(function(){G.cam="off";save();puzzle(s)})}

diff --git a/games/vanishing/game.js b/games/vanishing/game.js
@@ -57,7 +57,9 @@ function wet(c,rx,a){var g=c.createRadialGradient(60,152,2,60,152,rx);g.addColor
 /* de vermiste: op de rug gezien, lopend, capuchon op en rugzak om (bewust geen man of vrouw), tegen het laatste avondlicht */
 var WIMG=new Image();WIMG.src=MW.root+"games/vanishing/walker.webp";
 function ph(k,cls){return '<img class="'+(cls||"ph")+'" src="'+MW.root+'games/vanishing/p-'+k+'.webp" alt="" width="720" height="640">'}
-function phF(f){return ph(f.trait==="auto"&&f.val==="auto"&&f.k!=="msg"?"car":f.k==="cam"?"cam":f.k==="wit"?"witness":f.k==="msg"||f.k==="open"||f.trait==="bellen"?"phone":f.k==="time"?"doorbell":"found")}
+function fid(f){var i,k,v,a;if(f.k==="open")return "open";for(i=0;i<(D.SC||[]).length;i++)if(D.SC[i].t===f.t)return "SC:"+i;for(i=0;i<D.TIME.length;i++)if(D.TIME[i].t===f.t)return "TIME:"+i;for(k in D.CT)for(v in D.CT[k].clue){a=D.CT[k].clue[v];for(i=0;i<a.length;i++)if(a[i].t===f.t)return k+":"+v+":"+i}return ""}
+var FPH={"auto:auto:0":"car","auto:auto:1":"car","auto:auto:2":"car","bellen:ja:0":"phone","bellen:nee:0":"phone","SC:6":"left","SC:10":"fled","TIME:0":"found","TIME:1":"bag","TIME:3":"cam"};
+function phF(f){return ph(FPH[fid(f)]||(f.k==="cam"?"cam":f.k==="wit"?"witness":f.k==="msg"||f.k==="open"?"phone":f.k==="time"?"doorbell":"found"))}
 var SPH=["taken","fled","left"];
 function walker(c,x,y,s,col,al){
   if(WIMG.naturalWidth){c.save();c.globalAlpha=al;var cy=y-s*.06,g0=c.createRadialGradient(x,cy,s*.05,x,cy,s*.74);g0.addColorStop(0,"rgba(240,150,60,.42)");g0.addColorStop(.55,"rgba(232,120,70,.16)");g0.addColorStop(1,"rgba(232,120,70,0)");c.fillStyle=g0;c.beginPath();c.arc(x,cy,s*.74,0,7);c.fill();
@@ -233,7 +235,7 @@ function startAR(s){closeSheet();var ar=$("#ar"),v=$("#arV"),c=$("#arC"),hint=$(
   try{if(window.DeviceOrientationEvent&&typeof DeviceOrientationEvent.requestPermission==="function")DeviceOrientationEvent.requestPermission().catch(function(){})}catch(e){}
   req.then(function(stream){G.cam="on";save();AR.on=true;v.srcObject=stream;ar.hidden=false;var g=c.getContext("2d"),dpr=1,w=0,h=0,head=null,dragH=180,target=90+Math.random()*180,hold=0,last=0,fin=false,hasOri=false;
     var rs=function(){dpr=Math.min(2,devicePixelRatio||1);w=c.clientWidth;h=c.clientHeight;c.width=w*dpr;c.height=h*dpr};rs();addEventListener("resize",rs);
-    var ori=function(e){var a=e.webkitCompassHeading!=null?e.webkitCompassHeading:(e.alpha!=null?360-e.alpha:null);if(a!=null){head=a;hasOri=true}};
+    var ori=function(e){var a=e.webkitCompassHeading!=null?e.webkitCompassHeading:(e.alpha!=null?360-e.alpha:null);if(a!=null){if(head==null)head=a;else{var dh=((a-head)%360+540)%360-180;head=(head+dh*.25+360)%360}hasOri=true}};
     addEventListener("deviceorientationabsolute",ori);addEventListener("deviceorientation",ori);
     var pd=null;c.addEventListener("pointerdown",function(e){pd=[e.clientX,dragH]});c.addEventListener("pointermove",function(e){if(pd&&!hasOri)dragH=pd[1]-(e.clientX-pd[0])*.35});c.addEventListener("pointerup",function(){pd=null});
     var stop=function(){AR.on=false;fin=true;removeEventListener("deviceorientationabsolute",ori);removeEventListener("deviceorientation",ori);removeEventListener("resize",rs);try{stream.getTracks().forEach(function(t){t.stop()})}catch(e){}v.srcObject=null;ar.hidden=true};
@@ -244,8 +246,8 @@ function startAR(s){closeSheet();var ar=$("#ar"),v=$("#arV"),c=$("#arC"),hint=$(
       var fov=60,x=w/2+d/fov*w,y=h*.58,vis=Math.abs(d)<fov*.9;
       if(vis){var sc=120+Math.max(0,20-Math.abs(d))*2;walker(g,x,y-sc*.1,sc,"#f0963c",.6+.35*Math.abs(Math.sin(ts/300)))}
       g.strokeStyle="rgba(240,166,58,.8)";g.lineWidth=2;g.beginPath();g.arc(w/2,y,44,0,7);g.stroke();
-      var near=Math.abs(d)<10;hold=near?hold+dt:0;if(near){g.strokeStyle="#f4ece0";g.lineWidth=5;g.beginPath();g.arc(w/2,y,52,-1.57,-1.57+6.283*Math.min(1,hold/1.2));g.stroke()}
-      hint.textContent=near?PZ.ar.hold:d<-10?PZ.ar.left:d>10?PZ.ar.right:"";
+      var near=Math.abs(d)<15;hold=near?hold+dt:Math.max(0,hold-dt*1.5);if(near){g.strokeStyle="#f4ece0";g.lineWidth=5;g.beginPath();g.arc(w/2,y,52,-1.57,-1.57+6.283*Math.min(1,hold/1.2));g.stroke()}
+      hint.textContent=near?PZ.ar.hold:d<-15?PZ.ar.left:d>15?PZ.ar.right:"";
       if(hold>=1.2){toast(PZ.ar.found);stop();finish(s);return}
       requestAnimationFrame(f)};requestAnimationFrame(f)
   }).catch(function(){G.cam="off";save();puzzle(s)})}

diff --git a/games/witness/game.js b/games/witness/game.js
@@ -64,7 +64,9 @@ function walker(c,x,y,s,col,al){figBox(c,x,y,s,al,function(){
 var SIMG=new Image();SIMG.src=MW.root+"games/witness/stalker.webp";
 function tint(h,a){return "rgba("+parseInt(h.slice(1,3),16)+","+parseInt(h.slice(3,5),16)+","+parseInt(h.slice(5,7),16)+","+a+")"}
 function ph(k,cls){return '<img class="'+(cls||"ph")+'" src="'+MW.root+'games/witness/p-'+k+'.webp" alt="" width="720" height="620">'}
-function phF(f){return f.k==="cam"?"cam":f.k==="wit"?"passer":f.k==="time"?"window":f.trait==="auto"?"car":"found"}
+function fid(f){var i,k,v,a;if(f.k==="open")return "open";for(i=0;i<(D.SC||[]).length;i++)if(D.SC[i].t===f.t)return "SC:"+i;for(i=0;i<D.TIME.length;i++)if(D.TIME[i].t===f.t)return "TIME:"+i;for(k in D.CT)for(v in D.CT[k].clue){a=D.CT[k].clue[v];for(i=0;i<a.length;i++)if(a[i].t===f.t)return k+":"+v+":"+i}return ""}
+var FPH={"auto:ja:0":"car","auto:ja:1":"car","rookt:nee:0":"shadows","nummer:oud:1":"phone","nummer:nieuw:1":"phone","TIME:0":"shadows","TIME:2":"cam","TIME:3":"shadows"};
+function phF(f){return FPH[fid(f)]||(f.k==="cam"?"cam":f.k==="wit"?"passer":f.k==="time"?"window":"found")}
 function stalker(c,x,y,s,col,al){
   if(SIMG.naturalWidth){c.save();c.globalAlpha=al;var cy=y-s*.08,g0=c.createRadialGradient(x,cy,s*.05,x,cy,s*.72);g0.addColorStop(0,tint(col,.5));g0.addColorStop(.55,tint(col,.18));g0.addColorStop(1,tint(col,0));c.fillStyle=g0;c.beginPath();c.arc(x,cy,s*.72,0,7);c.fill();
     var sh=s*1.14,sw=sh*SIMG.naturalWidth/SIMG.naturalHeight;c.drawImage(SIMG,x-sw/2,y-sh/2,sw,sh);c.restore();return}
@@ -277,7 +279,7 @@ function startAR(s){closeSheet();var ar=$("#ar"),v=$("#arV"),c=$("#arC"),hint=$(
   try{if(window.DeviceOrientationEvent&&typeof DeviceOrientationEvent.requestPermission==="function")DeviceOrientationEvent.requestPermission().catch(function(){})}catch(e){}
   req.then(function(stream){G.cam="on";save();AR.on=true;v.srcObject=stream;ar.hidden=false;var g=c.getContext("2d"),dpr=1,w=0,h=0,head=null,dragH=180,target=90+Math.random()*180,hold=0,last=0,fin=false,hasOri=false;
     var rs=function(){dpr=Math.min(2,devicePixelRatio||1);w=c.clientWidth;h=c.clientHeight;c.width=w*dpr;c.height=h*dpr};rs();addEventListener("resize",rs);
-    var ori=function(e){var a=e.webkitCompassHeading!=null?e.webkitCompassHeading:(e.alpha!=null?360-e.alpha:null);if(a!=null){head=a;hasOri=true}};
+    var ori=function(e){var a=e.webkitCompassHeading!=null?e.webkitCompassHeading:(e.alpha!=null?360-e.alpha:null);if(a!=null){if(head==null)head=a;else{var dh=((a-head)%360+540)%360-180;head=(head+dh*.25+360)%360}hasOri=true}};
     addEventListener("deviceorientationabsolute",ori);addEventListener("deviceorientation",ori);
     var pd=null;c.addEventListener("pointerdown",function(e){pd=[e.clientX,dragH]});c.addEventListener("pointermove",function(e){if(pd&&!hasOri)dragH=pd[1]-(e.clientX-pd[0])*.35});c.addEventListener("pointerup",function(){pd=null});
     var stop=function(){AR.on=false;fin=true;removeEventListener("deviceorientationabsolute",ori);removeEventListener("deviceorientation",ori);removeEventListener("resize",rs);try{stream.getTracks().forEach(function(t){t.stop()})}catch(e){}v.srcObject=null;ar.hidden=true};
@@ -288,8 +290,8 @@ function startAR(s){closeSheet();var ar=$("#ar"),v=$("#arV"),c=$("#arC"),hint=$(
       var fov=60,x=w/2+d/fov*w,y=h*.58,vis=Math.abs(d)<fov*.9;
       if(vis){var sc=120+Math.max(0,20-Math.abs(d))*2;stalker(g,x,y-sc*.1,sc+hold*60,"#8fa3b8",.75+.2*Math.abs(Math.sin(ts/300)))}
       g.strokeStyle="rgba(240,166,58,.8)";g.lineWidth=2;g.beginPath();g.arc(w/2,y,44,0,7);g.stroke();
-      var near=Math.abs(d)<10;hold=near?hold+dt:0;if(near){g.strokeStyle="#f4ece0";g.lineWidth=5;g.beginPath();g.arc(w/2,y,52,-1.57,-1.57+6.283*Math.min(1,hold/1.2));g.stroke()}
-      hint.textContent=near?PZ.ar.hold:d<-10?PZ.ar.left:d>10?PZ.ar.right:"";
+      var near=Math.abs(d)<15;hold=near?hold+dt:Math.max(0,hold-dt*1.5);if(near){g.strokeStyle="#f4ece0";g.lineWidth=5;g.beginPath();g.arc(w/2,y,52,-1.57,-1.57+6.283*Math.min(1,hold/1.2));g.stroke()}
+      hint.textContent=near?PZ.ar.hold:d<-15?PZ.ar.left:d>15?PZ.ar.right:"";
       if(hold>=1.2){toast(PZ.ar.found);stop();finish(s);return}
       requestAnimationFrame(f)};requestAnimationFrame(f)
   }).catch(function(){G.cam="off";save();puzzle(s)})}

diff --git a/games/ghosts/game.js b/games/ghosts/game.js
@@ -215,7 +215,7 @@ function runAR(fin,onDone,onFail){closeSheet();var ar=$("#ar"),v=$("#arV"),c=$("
   req.then(function(stream){G.cam="on";save();AR.on=true;v.srcObject=stream;ar.hidden=false;ar.classList.toggle("calm",!!fin);
     var g=c.getContext("2d"),dpr=1,w=0,h=0,hd=null,dragH=180,target=fin?null:90+Math.random()*180,hold=0,last=0,over=false,hasOri=false,t0=0;
     var rs=function(){dpr=Math.min(2,devicePixelRatio||1);w=c.clientWidth;h=c.clientHeight;c.width=w*dpr;c.height=h*dpr};rs();addEventListener("resize",rs);
-    var ori=function(e){var a=e.webkitCompassHeading!=null?e.webkitCompassHeading:(e.alpha!=null?360-e.alpha:null);if(a!=null){hd=a;hasOri=true}};
+    var ori=function(e){var a=e.webkitCompassHeading!=null?e.webkitCompassHeading:(e.alpha!=null?360-e.alpha:null);if(a!=null){if(hd==null)hd=a;else{var dh=((a-hd)%360+540)%360-180;hd=(hd+dh*.25+360)%360}hasOri=true}};
     addEventListener("deviceorientationabsolute",ori);addEventListener("deviceorientation",ori);
     var pd=null;c.onpointerdown=function(e){pd=[e.clientX,dragH]};c.onpointermove=function(e){if(pd&&!hasOri)dragH=pd[1]-(e.clientX-pd[0])*.35};c.onpointerup=function(){pd=null};
     var stop=function(){AR.on=false;over=true;removeEventListener("deviceorientationabsolute",ori);removeEventListener("deviceorientation",ori);removeEventListener("resize",rs);try{stream.getTracks().forEach(function(t){t.stop()})}catch(e){}v.srcObject=null;ar.hidden=true};
@@ -225,8 +225,8 @@ function runAR(fin,onDone,onFail){closeSheet();var ar=$("#ar"),v=$("#arV"),c=$("
       if(fin){var e=(ts-t0-500)/1000,al=e<1.6?e/1.6:e<4.5?1:Math.max(0,1-(e-4.5)/5.5);spiritImg(g,x,y,h*.72,al,true);hint.textContent=e<4.5?PZ.ar.calm:PZ.ar.fade;if(e>10.2){stop();onDone();return}}
       else{if(Math.abs(d)<fov*.9){var sc=h*.3+hold*h*.14,jx=Math.sin(ts/53)*2*(1+hold);spiritImg(g,x+jx,y,sc*1.5,.5+.5*Math.abs(Math.sin(ts/170)),false)}
         g.strokeStyle="rgba(255,138,40,.8)";g.lineWidth=1.5;g.beginPath();g.arc(w/2,y,46,0,7);g.stroke();
-        var near=Math.abs(d)<10;hold=near?hold+dt:0;if(near){g.strokeStyle="#e9eef5";g.lineWidth=4;g.beginPath();g.arc(w/2,y,54,-1.57,-1.57+6.283*Math.min(1,hold/1.5));g.stroke();if(Math.random()<.2)buzz(15)}
-        hint.textContent=near?PZ.ar.hold:d<-10?PZ.ar.left:d>10?PZ.ar.right:"";
+        var near=Math.abs(d)<15;hold=near?hold+dt:Math.max(0,hold-dt*1.5);if(near){g.strokeStyle="#e9eef5";g.lineWidth=4;g.beginPath();g.arc(w/2,y,54,-1.57,-1.57+6.283*Math.min(1,hold/1.5));g.stroke();if(Math.random()<.2)buzz(15)}
+        hint.textContent=near?PZ.ar.hold:d<-15?PZ.ar.left:d>15?PZ.ar.right:"";
         if(hold>=1.5){toast(PZ.ar.found);buzz([200,80,300]);stop();onDone();return}}
       requestAnimationFrame(f)};requestAnimationFrame(f)
   }).catch(function(){G.cam="off";save();onFail()})}

diff --git a/nl/onopgelost.html b/nl/onopgelost.html
@@ -111,7 +111,7 @@
 <script src="../shared/walk.js?v=2"></script>
 <script src="../games/coldcase/data-nl.js?v=1"></script>
 <script src="../games/vanishing/puzzles.js?v=1"></script>
-<script src="../games/coldcase/game.js?v=2"></script>
+<script src="../games/coldcase/game.js?v=3"></script>
 <script>document.querySelectorAll(".yr").forEach(function(e){e.textContent=new Date().getFullYear()-22})</script>
 </body>
 </html>

diff --git a/unsolved.html b/unsolved.html
@@ -111,7 +111,7 @@
 <script src="shared/walk.js?v=2"></script>
 <script src="games/coldcase/data-en.js?v=1"></script>
 <script src="games/vanishing/puzzles.js?v=1"></script>
-<script src="games/coldcase/game.js?v=2"></script>
+<script src="games/coldcase/game.js?v=3"></script>
 <script>document.querySelectorAll(".yr").forEach(function(e){e.textContent=new Date().getFullYear()-22})</script>
 </body>
 </html>

diff --git a/nl/de-verdwijning.html b/nl/de-verdwijning.html
@@ -111,6 +111,6 @@
 <script src="../shared/walk.js?v=2"></script>
 <script src="../games/vanishing/data-nl.js?v=1"></script>
 <script src="../games/vanishing/puzzles.js?v=1"></script>
-<script src="../games/vanishing/game.js?v=4"></script>
+<script src="../games/vanishing/game.js?v=5"></script>
 </body>
 </html>

diff --git a/nl/de-laatste-bus.html b/nl/de-laatste-bus.html
@@ -113,6 +113,6 @@
 <script src="../shared/walk.js?v=2"></script>
 <script src="../games/lastbus/data-nl.js?v=1"></script>
 <script src="../games/vanishing/puzzles.js?v=1"></script>
-<script src="../games/lastbus/game.js?v=2"></script>
+<script src="../games/lastbus/game.js?v=3"></script>
 </body>
 </html>
